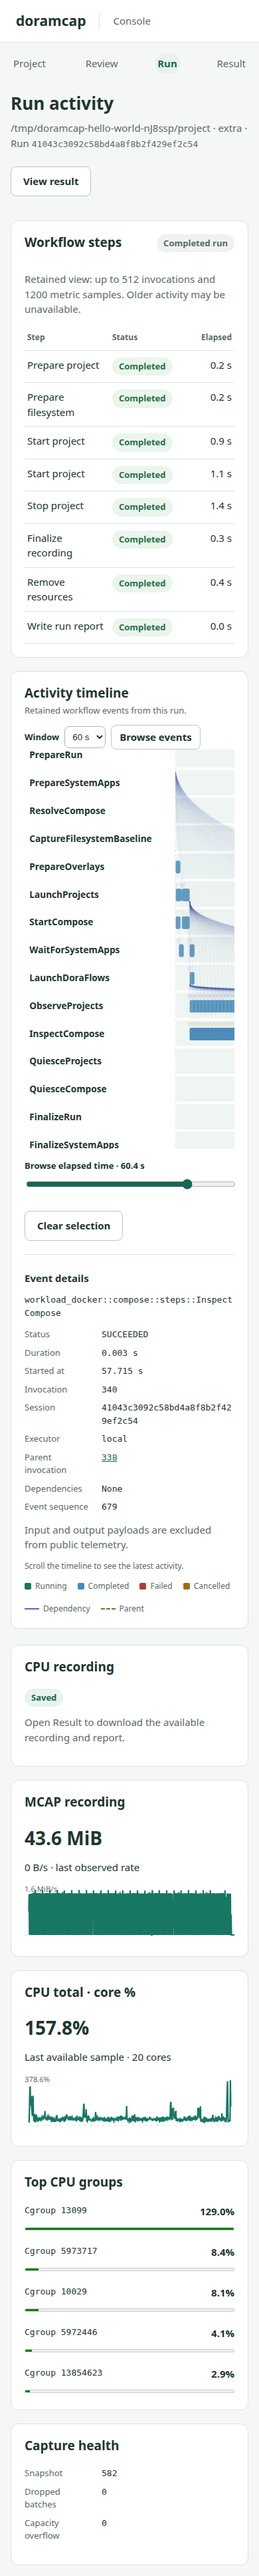
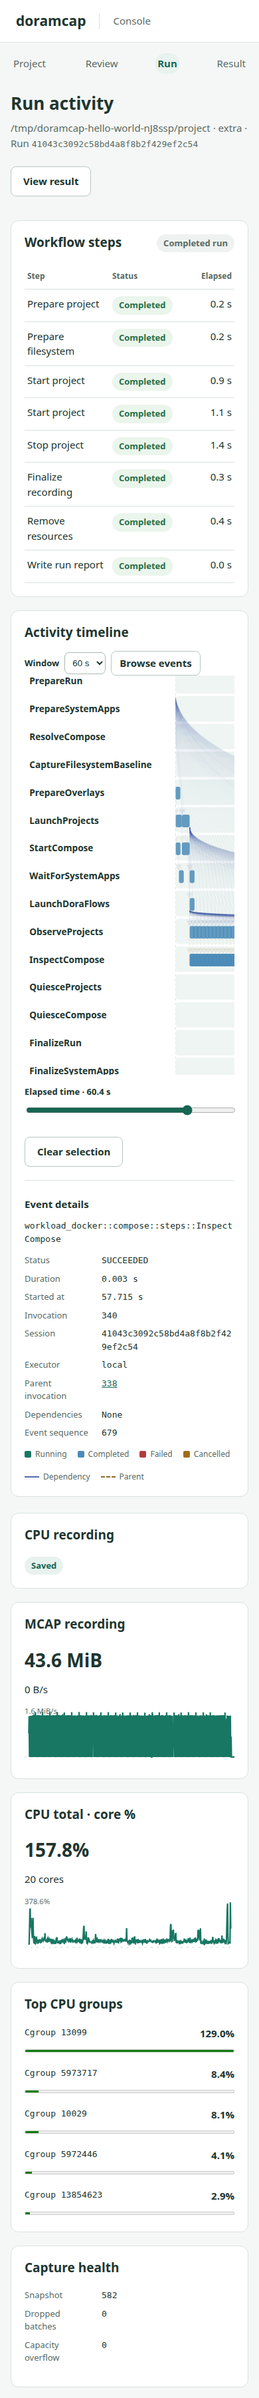
Remove redundant Console interface commentary

diff --git a/console/frontend/src/ActivityTimeline.tsx b/console/frontend/src/ActivityTimeline.tsx
@@ -8,7 +8,7 @@ const colors: Record<string, string> = { STARTED: '#177763', SUCCEEDED: '#4a8bb7
 
 export function EventDetails({ step, now, inspectRelated }: { step: Step; now: number; inspectRelated?: (invocation: string) => void }) {
   const times = stepTimes(step);
-  return <section className="event-details" aria-labelledby="event-detail-title"><h3 id="event-detail-title">Event details</h3><p className="mono break">{step.step}</p><dl className="detail-grid"><dt>Status</dt><dd>{step.state}</dd><dt>Duration</dt><dd>{elapsedDuration(step, now).toFixed(3)} s</dd><dt>Started at</dt><dd>{times.start.toFixed(3)} s</dd><dt>Invocation</dt><dd>{step.invocation}</dd><dt>Session</dt><dd>{step.session}</dd><dt>Executor</dt><dd>{step.executor}</dd><dt>Parent invocation</dt><dd>{step.parent ? (inspectRelated ? <button className="event-relation" onClick={() => inspectRelated(step.parent!)}>{step.parent}</button> : step.parent) : 'None'}</dd><dt>Dependencies</dt><dd>{step.dependencies?.length ? step.dependencies.map(id => inspectRelated ? <button key={id} className="event-relation" onClick={() => inspectRelated(id)}>{id}</button> : <span key={id}>{id} </span>) : 'None'}</dd><dt>Event sequence</dt><dd>{step.sequence ?? 'Unavailable'}</dd></dl>{step.error && <p className="notice failure-notice" role="status">{step.error}. Inspect private host evidence for the failure diagnostic.</p>}<p className="muted">Input and output payloads are excluded from public telemetry.</p></section>;
+  return <section className="event-details" aria-labelledby="event-detail-title"><h3 id="event-detail-title">Event details</h3><p className="mono break">{step.step}</p><dl className="detail-grid"><dt>Status</dt><dd>{step.state}</dd><dt>Duration</dt><dd>{elapsedDuration(step, now).toFixed(3)} s</dd><dt>Started at</dt><dd>{times.start.toFixed(3)} s</dd><dt>Invocation</dt><dd>{step.invocation}</dd><dt>Session</dt><dd>{step.session}</dd><dt>Executor</dt><dd>{step.executor}</dd><dt>Parent invocation</dt><dd>{step.parent ? (inspectRelated ? <button className="event-relation" onClick={() => inspectRelated(step.parent!)}>{step.parent}</button> : step.parent) : 'None'}</dd><dt>Dependencies</dt><dd>{step.dependencies?.length ? step.dependencies.map(id => inspectRelated ? <button key={id} className="event-relation" onClick={() => inspectRelated(id)}>{id}</button> : <span key={id}>{id} </span>) : 'None'}</dd><dt>Event sequence</dt><dd>{step.sequence ?? 'Unavailable'}</dd></dl>{step.error && <p className="notice failure-notice" role="status">{step.error}</p>}</section>;
 }
 
 export function ActivityTimeline({ steps, now, live = true }: { steps: Step[]; now: number; live?: boolean }) {
@@ -38,7 +38,7 @@ export function ActivityTimeline({ steps, now, live = true }: { steps: Step[]; n
     return [{ step, start: Math.max(start, times.start), end: Math.min(right, end) }];
   });
   return <section className="panel activity-panel" aria-labelledby="activity-title">
-    <div className="panel-heading activity-heading"><div><h2 id="activity-title">Activity timeline</h2><p className="muted">{live ? 'Live workflow events by step.' : 'Retained workflow events from this run.'}</p></div><div className="timeline-controls"><label htmlFor="timeline-window">Window</label><select id="timeline-window" value={windowSeconds} onChange={event => setWindowSeconds(Number(event.target.value))}><option value={5}>5 s</option><option value={15}>15 s</option><option value={30}>30 s</option><option value={60}>60 s</option></select><button className="button secondary timeline-toggle" onClick={() => setPaused(paused ? null : { now, steps: [...steps] })}>{paused ? (live ? 'Follow live' : 'Latest events') : (live ? 'Pause' : 'Browse events')}</button></div></div>
+    <div className="panel-heading activity-heading"><div><h2 id="activity-title">Activity timeline</h2></div><div className="timeline-controls"><label htmlFor="timeline-window">Window</label><select id="timeline-window" value={windowSeconds} onChange={event => setWindowSeconds(Number(event.target.value))}><option value={5}>5 s</option><option value={15}>15 s</option><option value={30}>30 s</option><option value={60}>60 s</option></select><button className="button secondary timeline-toggle" onClick={() => setPaused(paused ? null : { now, steps: [...steps] })}>{paused ? (live ? 'Follow live' : 'Latest events') : (live ? 'Pause' : 'Browse events')}</button></div></div>
     <div className="activity-scroll"><svg className="activity-timeline" viewBox={`0 0 ${svgWidth} ${svgHeight}`} onClick={event => {
       const box = event.currentTarget.getBoundingClientRect();
       const plotX = (event.clientX - box.left) * svgWidth / box.width;
@@ -49,7 +49,7 @@ export function ActivityTimeline({ steps, now, live = true }: { steps: Step[]; n
       const distance = (item: typeof visible[number]) => Math.max(item.start - time, time - item.end, 0);
       const nearby = visible.filter(item => rowByName.get(item.step.step) === lane).sort((a,b) => distance(a) - distance(b))[0];
       if (nearby) select(nearby.step);
-    }} role="group" aria-label={`Workflow activity timeline, ${live ? (paused ? 'paused' : 'following live') : 'retained run'}, showing ${windowSeconds} seconds`}>
+    }} role="group" aria-label={`Workflow activity timeline, ${live ? (paused ? 'paused' : 'following live') : 'completed run'}, showing ${windowSeconds} seconds`}>
       <defs><clipPath id={clipId}><rect x={left} y="28" width={width} height={plotBottom - 28} /></clipPath><marker id={arrowId} viewBox="0 0 8 8" refX="7" refY="4" markerWidth="7" markerHeight="7" orient="auto"><path d="M0,0 L8,4 L0,8 Z" fill="context-stroke"/></marker></defs>
       {Array.from({ length: 6 }, (_, i) => <g key={i}><line x1={left + i * width / 5} x2={left + i * width / 5} y1="28" y2={plotBottom} className="timeline-grid"/><text x={left + i * width / 5} y="17" textAnchor="middle" className="timeline-axis">{(start + i * windowSeconds / 5).toFixed(1)} s</text></g>)}
       {rows.map((name, i) => <g key={name} className="timeline-step-row" data-step={name}><rect x={left} y={top + i * rowHeight} width={width} height={rowHeight - 4} rx="5" className="timeline-lane"/><text x="8" y={top + 27 + i * rowHeight} className="timeline-lane-label"><title>{name}</title>{name.split('::').at(-1)}</text></g>)}
@@ -61,12 +61,12 @@ export function ActivityTimeline({ steps, now, live = true }: { steps: Step[]; n
         const x1 = x(from), spanWidth = Math.max(8, x(end) - x1), markerX = Math.max(left, Math.min(left + width - spanWidth, x1)), y = rowY(step);
         return <rect className="timeline-event" role="button" tabIndex={0} aria-label={`${shortStep(step)}, ${step.state.toLowerCase()}, invocation ${step.invocation}`} aria-pressed={selected ? identity(selected) === identity(step) : false} onClick={event => { event.stopPropagation(); select(step); }} onKeyDown={event => { if (event.key === 'Enter' || event.key === ' ') { event.preventDefault(); select(step); } }} stroke={selected && identity(selected) === identity(step) ? '#20352f' : 'none'} strokeWidth="3" key={identity(step)} x={markerX} y={y} width={spanWidth} height="21" rx="3" fill={colors[step.state] ?? '#72857d'} opacity="0.85"><title>{`${shortStep(step)} · ${step.state.toLowerCase()} · invocation ${step.invocation}`}</title></rect>;
       })}</g>
-      {!shown.length && <text x={left + width / 2} y={top + 27} textAnchor="middle" className="timeline-empty">{live ? 'Waiting for workflow events…' : 'No retained workflow events available.'}</text>}
-      <text x={left} y={svgHeight - 8} className="timeline-axis">Elapsed since workflow start</text>
+      {!shown.length && <text x={left + width / 2} y={top + 27} textAnchor="middle" className="timeline-empty">{live ? 'Waiting for events…' : 'No events available.'}</text>}
+      <text x={left} y={svgHeight - 8} className="timeline-axis">Elapsed time</text>
     </svg></div>
-    <label className="timeline-position" htmlFor="timeline-position">Browse elapsed time · {right.toFixed(1)} s<input id="timeline-position" type="range" min={windowSeconds} max={Math.max(windowSeconds, now)} step="0.1" value={Math.min(right, Math.max(windowSeconds, now))} onChange={event => setPaused({ now: Number(event.target.value), steps: [...steps] })}/></label>
-    {missingRelated && <p className="notice">Related invocation is outside the retained activity.</p>}
-    {focus ? <><div className="actions"><button className="button secondary" onClick={() => { setSelected(null); setMissingRelated(false); }}>Clear selection</button></div><EventDetails step={focus} now={shownNow} inspectRelated={inspectRelated}/></> : <p className="muted">Select an event to inspect its timing and relationships.</p>}
-    <p className="timeline-scroll-hint">Scroll the timeline to see the latest activity.</p><div className="timeline-legend"><span><i className="timeline-key running"/>Running</span><span><i className="timeline-key completed"/>Completed</span><span><i className="timeline-key failed"/>Failed</span><span><i className="timeline-key cancelled"/>Cancelled</span><span><i className="timeline-flow-key dependency"/>Dependency</span><span><i className="timeline-flow-key parent"/>Parent</span></div>
+    <label className="timeline-position" htmlFor="timeline-position">Elapsed time · {right.toFixed(1)} s<input id="timeline-position" type="range" min={windowSeconds} max={Math.max(windowSeconds, now)} step="0.1" value={Math.min(right, Math.max(windowSeconds, now))} onChange={event => setPaused({ now: Number(event.target.value), steps: [...steps] })}/></label>
+    {missingRelated && <p className="notice">Related event unavailable.</p>}
+    {focus ? <><div className="actions"><button className="button secondary" onClick={() => { setSelected(null); setMissingRelated(false); }}>Clear selection</button></div><EventDetails step={focus} now={shownNow} inspectRelated={inspectRelated}/></> : null}
+    <div className="timeline-legend"><span><i className="timeline-key running"/>Running</span><span><i className="timeline-key completed"/>Completed</span><span><i className="timeline-key failed"/>Failed</span><span><i className="timeline-key cancelled"/>Cancelled</span><span><i className="timeline-flow-key dependency"/>Dependency</span><span><i className="timeline-flow-key parent"/>Parent</span></div>
   </section>;
 }

diff --git a/console/frontend/src/App.tsx b/console/frontend/src/App.tsx
@@ -91,9 +91,9 @@ export function App() {
     {error && <div className="notice failure-notice" role="alert">{error}{retry && <ActionButton variant="secondary" onClick={() => void start()}>Start run</ActionButton>}</div>}
     {disconnected && <div className="notice"><span role="status">Connection lost; run may still be active.</span> <span aria-live="off">{updated && `Last update ${Math.max(0, Math.floor((clock - updated) / 1000))} s ago.`}</span></div>}
     <div className="sr-only" aria-live="polite">{phase} {state === 'STOPPING' ? 'Stopping run' : ''}</div>
-    {phase === 'Project' && <><div className="heading"><div><h1>Choose a project</h1><p>Select a server-side Compose project to record.</p></div></div><div className="columns"><section className="panel"><h2>Project directory</h2><p className="muted">Enter a directory beneath the approved project root.</p><label htmlFor="directory">Directory on this host</label><input id="directory" value={directory} onChange={event => changeDirectory(event.target.value)} placeholder="/projects/my-project" autoComplete="off"/>{available.length > 0 && <fieldset><legend>Optional profiles</legend>{available.map(profile => <label className="checkbox" key={profile}><input type="checkbox" checked={profiles.includes(profile)} onChange={() => toggleProfile(profile)}/>{profile}</label>)}</fieldset>}<div className="actions"><ActionButton disabled={!directory.trim() || busy} onClick={() => void prepare()}>{busy ? 'Checking…' : available.length ? 'Review project' : 'Continue'}</ActionButton></div></section><aside><section className="panel"><h2>Before you start</h2><p>Use the project’s default Compose files and prebuilt local images. CPU recording starts with the run.</p><p className="muted">One project runs at a time on this host.</p></section></aside></div></>}
-    {phase === 'Review' && review && <><div className="heading"><div><h1>Review project</h1><p>Confirm the resolved application before starting.</p></div><ActionButton onClick={() => void start()} disabled={busy}>Start run</ActionButton></div><div className="columns"><section className="panel"><div className="panel-heading"><h2>Application</h2><StatusLabel label="Ready to start" tone="success"/></div><p className="mono break">{directory}</p><h3>Enabled services</h3><table><thead><tr><th>Service</th><th>Local image</th></tr></thead><tbody>{review.services.map(service => <tr key={service.name}><td>{service.name}</td><td className="mono break">{service.imageId}</td></tr>)}</tbody></table>{review.warnings.map(warning => <p className="notice" key={warning}>{warning}</p>)}<div className="actions"><ActionButton variant="secondary" onClick={() => { selecting.current = true; setPhase('Project'); }}>Change project</ActionButton></div></section><aside><section className="panel"><h2>Run settings</h2><p>Profiles</p><p>{profiles.length ? profiles.join(', ') : 'Default'}</p><p className="muted">CPU recording will be checked after startup and finalized on Stop.</p></section></aside></div></>}
-    {phase === 'Run' && <><div className="heading"><div><h1>{historical ? 'Run activity' : state === 'STOPPING' || stopPending ? 'Stopping run' : 'Run in progress'}</h1><p>{(snapshot?.projectDirectory || directory) && <>{snapshot?.projectDirectory || directory} · </>}{(snapshot?.profiles?.length ?? 0) > 0 && <>{snapshot?.profiles?.join(', ')} · </>}Run <span className="mono">{snapshot?.runId || expected.current}</span></p></div>{historical ? <ActionButton variant="secondary" onClick={() => navigateRun('Result')}>View result</ActionButton> : <ActionButton variant="stop" disabled={state === 'STOPPING' || stopPending} onClick={() => void stop()}>{state === 'STOPPING' || stopPending ? 'Stopping…' : 'Stop run'}</ActionButton>}</div><div className="columns"><div><RunActivity snapshot={snapshot} stopping={state === 'STOPPING' || stopPending} disconnected={disconnected} historical={historical}/></div><aside><section className="panel"><h2>CPU recording</h2><StatusLabel label={historical ? (snapshot?.cpuAvailable ? 'Saved' : 'Unavailable') : snapshot?.monitorReady ? 'In progress' : 'Waiting for readiness'} tone={snapshot?.monitorReady ? 'active' : 'neutral'}/><p className="muted">{historical ? 'Open Result to download the available recording and report.' : 'Evidence is available after Stop and finalization.'}</p></section><RunMetrics samples={snapshot?.metrics} cpuSnapshots={snapshot?.cpuSnapshots} historical={historical} disconnected={disconnected} incomplete={snapshot?.metricsIncomplete}/>{!historical && <section className="panel"><h2>Stopping the run</h2><p>Stop ends the application, finishes the recording, and checks cleanup.</p><p className="muted">Closing this browser leaves the run on the host.</p></section>}</aside></div></>}
+    {phase === 'Project' && <><div className="heading"><div><h1>Choose a project</h1></div></div><div className="columns"><section className="panel"><h2>Project directory</h2><p className="muted">Enter a directory beneath the approved project root.</p><label htmlFor="directory">Directory on this host</label><input id="directory" value={directory} onChange={event => changeDirectory(event.target.value)} placeholder="/projects/my-project" autoComplete="off"/>{available.length > 0 && <fieldset><legend>Optional profiles</legend>{available.map(profile => <label className="checkbox" key={profile}><input type="checkbox" checked={profiles.includes(profile)} onChange={() => toggleProfile(profile)}/>{profile}</label>)}</fieldset>}<div className="actions"><ActionButton disabled={!directory.trim() || busy} onClick={() => void prepare()}>{busy ? 'Checking…' : available.length ? 'Review project' : 'Continue'}</ActionButton></div></section><aside><section className="panel"><h2>Before you start</h2><p>Default Compose files and prebuilt local images required.</p></section></aside></div></>}
+    {phase === 'Review' && review && <><div className="heading"><div><h1>Review project</h1></div><ActionButton onClick={() => void start()} disabled={busy}>Start run</ActionButton></div><div className="columns"><section className="panel"><div className="panel-heading"><h2>Application</h2><StatusLabel label="Ready to start" tone="success"/></div><p className="mono break">{directory}</p><h3>Enabled services</h3><table><thead><tr><th>Service</th><th>Local image</th></tr></thead><tbody>{review.services.map(service => <tr key={service.name}><td>{service.name}</td><td className="mono break">{service.imageId}</td></tr>)}</tbody></table>{review.warnings.map(warning => <p className="notice" key={warning}>{warning}</p>)}<div className="actions"><ActionButton variant="secondary" onClick={() => { selecting.current = true; setPhase('Project'); }}>Change project</ActionButton></div></section><aside><section className="panel"><h2>Run settings</h2><p>Profiles</p><p>{profiles.length ? profiles.join(', ') : 'Default'}</p></section></aside></div></>}
+    {phase === 'Run' && <><div className="heading"><div><h1>{historical ? 'Run activity' : state === 'STOPPING' || stopPending ? 'Stopping run' : 'Run in progress'}</h1><p>{(snapshot?.projectDirectory || directory) && <>{snapshot?.projectDirectory || directory} · </>}{(snapshot?.profiles?.length ?? 0) > 0 && <>{snapshot?.profiles?.join(', ')} · </>}Run <span className="mono">{snapshot?.runId || expected.current}</span></p></div>{historical ? <ActionButton variant="secondary" onClick={() => navigateRun('Result')}>View result</ActionButton> : <ActionButton variant="stop" disabled={state === 'STOPPING' || stopPending} onClick={() => void stop()}>{state === 'STOPPING' || stopPending ? 'Stopping…' : 'Stop run'}</ActionButton>}</div><div className="columns"><div><RunActivity snapshot={snapshot} stopping={state === 'STOPPING' || stopPending} disconnected={disconnected} historical={historical}/></div><aside><section className="panel"><h2>CPU recording</h2><StatusLabel label={historical ? (snapshot?.cpuAvailable ? 'Saved' : 'Unavailable') : snapshot?.monitorReady ? 'In progress' : 'Waiting for readiness'} tone={snapshot?.monitorReady ? 'active' : 'neutral'}/></section><RunMetrics samples={snapshot?.metrics} cpuSnapshots={snapshot?.cpuSnapshots} historical={historical} disconnected={disconnected} incomplete={snapshot?.metricsIncomplete}/></aside></div></>}
     {phase === 'Result' && snapshot && <Result snapshot={snapshot} newRun={newRun} viewRun={() => navigateRun('Run')}/>}
   </PageFrame>;
 }

diff --git a/console/frontend/src/ui/tokens.css b/console/frontend/src/ui/tokens.css
@@ -1,5 +1,5 @@
 :root{font-family:system-ui,-apple-system,BlinkMacSystemFont,"Segoe UI",sans-serif;color:#20352f;background:#f5f7f6;font-size:15px;line-height:1.5}*{box-sizing:border-box}body{margin:0}button,input{font:inherit}button,a,input{outline-offset:2px}button:focus-visible,a:focus-visible,input:focus-visible{outline:2px solid #166653}.topbar{height:64px;background:#fff;border-bottom:1px solid #d9e2dd;display:flex;align-items:center;gap:20px;padding:0 48px;color:#596b64}.topbar strong{font-size:21px;color:#20352f}.divider{height:24px;width:1px;background:#d9e2dd}.host{margin-left:auto;font-size:13px}.page{max-width:1200px;margin:auto;padding:20px 64px 64px}.phase-rail{display:flex;gap:24px;align-items:center;flex-wrap:wrap;margin-bottom:28px}.phase{display:flex;gap:9px;align-items:center;padding:6px 8px;border-radius:16px;color:#596b64}.phase small{font-size:12px;font-weight:600}.phase.current{background:#e8f2ee;color:#166653;font-weight:600}.heading{display:flex;justify-content:space-between;align-items:flex-start;gap:24px;margin-bottom:36px}.heading h1{margin:0;font-size:30px;line-height:1.25;font-weight:650}.heading p{margin:10px 0 0;color:#596b64}.columns{display:grid;grid-template-columns:minmax(0,2.05fr) minmax(0,1fr);gap:24px;align-items:start}.columns>div,.columns>aside{display:grid;gap:20px}.panel{background:#fff;border:1px solid #d9e2dd;border-radius:12px;padding:28px;min-width:0}.panel h2{font-size:19px;line-height:1.3;margin:0 0 20px}.panel h3{font-size:15px;margin:24px 0 8px}.panel p{margin:12px 0}.panel-heading{display:flex;justify-content:space-between;align-items:flex-start;gap:12px}.muted{color:#596b64}.mono{font-family:ui-monospace,SFMono-Regular,Consolas,monospace;font-size:13px}.break{overflow-wrap:anywhere}label,legend{font-size:13px;font-weight:600;display:block;margin:20px 0 8px}input:not([type=checkbox]){width:100%;height:44px;border:1px solid #a8bab1;border-radius:8px;padding:0 12px;color:#20352f;background:#fff}fieldset{border:0;padding:0;margin:20px 0}.checkbox{display:flex;align-items:center;gap:10px;font-weight:400;margin:10px 0}.checkbox input{width:18px;height:18px;accent-color:#166653}.actions{display:flex;align-items:center;gap:12px;flex-wrap:wrap;margin-top:24px}.button{min-height:44px;border:1px solid transparent;border-radius:8px;padding:10px 18px;display:inline-flex;align-items:center;justify-content:center;font-weight:600;text-decoration:none;cursor:pointer}.button.primary{background:#166653;color:white}.button.secondary,.button.stop{background:#fff;border-color:#b7c8bf;color:#20352f}.button.stop{color:#8b5a13}.button:disabled{cursor:not-allowed;opacity:.55}.status{display:inline-block;border-radius:16px;padding:4px 10px;font-size:13px;font-weight:600;white-space:nowrap}.status.active{color:#166653;background:#e8f2ee}.status.success{color:#267047;background:#eaf5ec}.status.attention{color:#8b5a13;background:#fff3dc}.status.failure{color:#a33636;background:#fbecec}.status.neutral{color:#596b64;background:#eff2f0}.notice{padding:12px 16px;background:#fff3dc;color:#714800;border-radius:8px;margin:0 0 20px;overflow-wrap:anywhere}.failure-notice{background:#fbecec;color:#8b2929}.attention-panel{border-color:#e7c99b;background:#fffaf1}.table-wrap{max-width:100%}table{border-collapse:collapse;width:100%;table-layout:fixed}th,td{border-bottom:1px solid #d9e2dd;text-align:left;padding:12px 8px;vertical-align:top;overflow-wrap:anywhere}th{font-size:12px;color:#596b64}td .status{white-space:normal}.duration{text-align:right;width:90px}.outcomes{display:grid;gap:0}.outcomes>div{display:flex;align-items:center;justify-content:space-between;gap:12px;padding:12px 0;border-bottom:1px solid #d9e2dd}.unavailable{color:#596b64;font-size:14px}.sr-only{position:absolute;width:1px;height:1px;padding:0;margin:-1px;overflow:hidden;clip:rect(0,0,0,0);white-space:nowrap;border:0}@media(max-width:900px){.page{padding:20px 24px 48px}.columns{grid-template-columns:1fr}.heading{flex-wrap:wrap}.topbar{padding:0 24px}.phase-rail{gap:8px}.host{display:none}}@media(max-width:480px){.page{padding:16px}.panel{padding:20px}.heading h1{font-size:26px}.phase{padding:4px}.phase-rail{justify-content:space-between}.phase small{display:none}.button{max-width:100%}th,td{padding:10px 4px}.duration{width:60px}}
-.activity-heading{align-items:center;flex-wrap:wrap}.activity-heading h2{margin-bottom:4px}.activity-heading p{margin:0;font-size:13px}.timeline-controls{display:flex;align-items:center;gap:8px;flex-wrap:wrap}.timeline-controls label{margin:0;font-size:13px}.timeline-controls select{border:1px solid #a8bab1;border-radius:7px;background:#fff;color:#20352f;padding:7px}.timeline-toggle{min-height:36px;padding:6px 12px}.activity-scroll{overflow:auto;max-height:600px}.activity-timeline{display:block;width:100%;height:auto;margin-top:20px}.timeline-grid{stroke:#cadad2;stroke-dasharray:3 5}.timeline-lane{fill:#eff5f2}.timeline-axis{font-size:16px;fill:#596b64}.timeline-lane-label{font-size:15px;fill:#20352f;font-weight:600}.timeline-empty{font-size:13px;fill:#596b64}.timeline-scroll-hint{display:none}.timeline-legend{display:flex;flex-wrap:wrap;gap:16px;font-size:12px;color:#596b64}.timeline-legend span{display:inline-flex;align-items:center;gap:6px}.timeline-key{width:10px;height:10px;border-radius:2px}.timeline-key.running{background:#177763}.timeline-key.completed{background:#4a8bb7}.timeline-key.failed{background:#b13c3c}.timeline-key.cancelled{background:#a26a1a}@media(max-width:480px){.timeline-scroll-hint{display:block;color:#596b64;font-size:12px;margin:4px 0}.activity-timeline{min-width:900px}.activity-heading{align-items:flex-start}.timeline-controls{width:100%}}
+.activity-heading{align-items:center;flex-wrap:wrap}.activity-heading h2{margin-bottom:4px}.activity-heading p{margin:0;font-size:13px}.timeline-controls{display:flex;align-items:center;gap:8px;flex-wrap:wrap}.timeline-controls label{margin:0;font-size:13px}.timeline-controls select{border:1px solid #a8bab1;border-radius:7px;background:#fff;color:#20352f;padding:7px}.timeline-toggle{min-height:36px;padding:6px 12px}.activity-scroll{overflow:auto;max-height:600px}.activity-timeline{display:block;width:100%;height:auto;margin-top:20px}.timeline-grid{stroke:#cadad2;stroke-dasharray:3 5}.timeline-lane{fill:#eff5f2}.timeline-axis{font-size:16px;fill:#596b64}.timeline-lane-label{font-size:15px;fill:#20352f;font-weight:600}.timeline-empty{font-size:13px;fill:#596b64}.timeline-legend{display:flex;flex-wrap:wrap;gap:16px;font-size:12px;color:#596b64}.timeline-legend span{display:inline-flex;align-items:center;gap:6px}.timeline-key{width:10px;height:10px;border-radius:2px}.timeline-key.running{background:#177763}.timeline-key.completed{background:#4a8bb7}.timeline-key.failed{background:#b13c3c}.timeline-key.cancelled{background:#a26a1a}@media(max-width:480px){.activity-timeline{min-width:900px}.activity-heading{align-items:flex-start}.timeline-controls{width:100%}}
 .timeline-event{cursor:pointer}.timeline-event:focus-visible{outline:3px solid #20352f;outline-offset:3px}.detail-grid{display:grid;grid-template-columns:minmax(0,1fr) minmax(0,2fr);gap:8px 16px;font-size:13px}.detail-grid dt{color:#596b64}.detail-grid dd{margin:0;overflow-wrap:anywhere;font-family:ui-monospace,SFMono-Regular,Consolas,monospace}.event-details{border-top:1px solid #d9e2dd;margin-top:20px}.timeline-position{margin:16px 0}.timeline-position input[type=range]{display:block;width:100%;padding:0;height:32px;accent-color:#166653}.metric-value{font-size:28px;font-weight:650}.metric-chart{display:block;width:100%;height:auto}.metric-scale{font-size:10px;fill:#596b64}.phase-link{font:inherit;border:0;background:transparent;cursor:pointer}.phase-link:hover{background:#e8f2ee}.run-view-actions{display:flex;gap:12px;flex-wrap:wrap}
 
 .event-relation{border:0;padding:0;background:transparent;color:#166653;text-decoration:underline;cursor:pointer;font:inherit;display:block;overflow-wrap:anywhere;text-align:left}

diff --git a/console/frontend/src/Result.tsx b/console/frontend/src/Result.tsx
@@ -4,5 +4,5 @@ import { OutcomeSummary } from './ui/OutcomeSummary';
 export function Result({ snapshot, newRun, viewRun }: { snapshot: Snapshot; newRun: () => void; viewRun?: () => void }) {
   const blocked = snapshot.phase === 'BLOCKED';
   const interrupted = blocked && !snapshot.outcome;
-  return <><div className="heading"><div><h1>{interrupted ? 'Run interrupted' : blocked ? 'Cleanup unverified' : snapshot.outcome?.execution === 'Failed' ? 'Run failed' : 'Run complete'}</h1><p>Run <span className="mono">{snapshot.runId || 'Unknown'}</span></p></div><div className="run-view-actions">{viewRun && <ActionButton variant="secondary" onClick={viewRun}>View run activity</ActionButton>}<ActionButton variant="secondary" disabled={blocked} onClick={newRun}>New run</ActionButton></div></div><div className="columns"><div><OutcomeSummary outcome={snapshot.outcome}/><section className="panel"><h2>Evidence</h2><p className="muted">Download the current run’s recording and summary.</p><div className="actions">{snapshot.cpuAvailable ? <a className="button primary" href={`/api/artifacts/${snapshot.runId}/cpu`}>Download CPU recording</a> : <span className="unavailable">CPU recording unavailable</span>}{snapshot.reportAvailable ? <a className="button secondary" href={`/api/artifacts/${snapshot.runId}/report`}>Download report</a> : <span className="unavailable">Report unavailable</span>}</div></section></div><aside><section className={`panel ${blocked ? 'attention-panel' : ''}`}><h2>{blocked ? 'Admission blocked' : 'Ready for another run'}</h2><p>{blocked ? 'New runs are blocked until the server host’s administrator verifies cleanup. Reloading or changing projects cannot clear this server-side block.' : 'Cleanup was verified. You can choose a project for a new run.'}</p>{blocked && <details><summary>How to recover</summary><ol><li>Download any available evidence, then stop the Console server.</li><li>On the host, inspect this run’s private report and resolve remaining Docker resources, mounts and filesystem recovery.</li><li>After verifying cleanup, archive the data root’s current.pb marker beside this run’s evidence and restart the server. The Console will return to project selection.</li></ol><p>The original recording and reports stay in the run’s artifact directory. This requires host access; there is no browser reset.</p></details>}{interrupted && <p>Execution, recording and cleanup outcomes are unknown after process interruption.</p>}</section></aside></div></>;
+  return <><div className="heading"><div><h1>{interrupted ? 'Run interrupted' : blocked ? 'Cleanup unverified' : snapshot.outcome?.execution === 'Failed' ? 'Run failed' : 'Run complete'}</h1><p>Run <span className="mono">{snapshot.runId || 'Unknown'}</span></p></div><div className="run-view-actions">{viewRun && <ActionButton variant="secondary" onClick={viewRun}>View run activity</ActionButton>}<ActionButton variant="secondary" disabled={blocked} onClick={newRun}>New run</ActionButton></div></div><div className="columns"><div><OutcomeSummary outcome={snapshot.outcome}/><section className="panel"><h2>Evidence</h2><div className="actions">{snapshot.cpuAvailable ? <a className="button primary" href={`/api/artifacts/${snapshot.runId}/cpu`}>Download CPU recording</a> : <span className="unavailable">CPU recording unavailable</span>}{snapshot.reportAvailable ? <a className="button secondary" href={`/api/artifacts/${snapshot.runId}/report`}>Download report</a> : <span className="unavailable">Report unavailable</span>}</div></section></div>{blocked && <aside><section className="panel attention-panel"><h2>Admission blocked</h2><p>Verify cleanup on the host before starting another run.</p>{blocked && <details><summary>How to recover</summary><ol><li>Download any available evidence, then stop the Console server.</li><li>On the host, inspect this run’s private report and resolve remaining Docker resources, mounts and filesystem recovery.</li><li>After verifying cleanup, archive the data root’s current.pb marker beside this run’s evidence and restart the server. The Console will return to project selection.</li></ol><p>The original recording and reports stay in the run’s artifact directory. This requires host access; there is no browser reset.</p></details>}{interrupted && <p>Execution, recording and cleanup outcomes are unknown after process interruption.</p>}</section></aside>}</div></>;
 }

diff --git a/console/frontend/src/RunMetrics.tsx b/console/frontend/src/RunMetrics.tsx
@@ -29,5 +29,5 @@ export function RunMetrics({ samples = [], cpuSnapshots = [], historical = false
   const source = cpuSnapshots.at(-1);
   const groups = useMemo(() => topCpuGroups(cpuSnapshots), [cpuSnapshots]);
   const peak = Math.max(100, ...groups.map(group => group.percent));
-  return <><section className="panel"><h2>MCAP recording</h2><p className="metric-value">{bytesLabel(last?.recordingBytes)}</p><p>{last?.writeBytesPerSecond != null ? `${bytesLabel(last.writeBytesPerSecond)}/s` : 'Waiting for write samples'} · {historical ? 'last observed rate' : 'observed write rate'}</p><Sparkline samples={samples} field="writeBytesPerSecond" label="MCAP file growth rate over retained samples"/></section><section className="panel"><h2>CPU total · core %</h2><p className="metric-value">{cpu?.cpuPercent != null ? `${cpu.cpuPercent.toFixed(1)}%` : 'Unavailable'}</p><p>{historical ? 'Last available sample' : disconnected ? 'Connection lost · values frozen' : 'Recorded cgroup total'}{cpu?.cpuCores ? ` · ${cpu.cpuCores} cores` : ''}</p><Sparkline samples={samples} field="cpuPercent" label="Total recorded cgroup CPU utilization across cores over retained samples"/></section><section className="panel"><h2>Top CPU groups</h2>{groups.length ? <ol className="cpu-ranking">{groups.map(group => <li key={group.id}><div><span className="mono">Cgroup {group.id}</span><strong>{group.percent.toFixed(1)}%</strong></div><meter min={0} max={peak} value={group.percent} aria-label={`Cgroup ${group.id} core utilization`}/></li>)}</ol> : <p className="muted">No CPU group samples available.</p>}</section><section className="panel"><h2>Capture health</h2><dl className="detail-grid"><dt>Snapshot</dt><dd>{source?.sequence?.toString() ?? 'Unavailable'}</dd><dt>Dropped batches</dt><dd>{source?.droppedBatches?.toString() ?? 'Unavailable'}</dd><dt>Capacity overflow</dt><dd>{source?.capacityOverflow?.toString() ?? 'Unavailable'}</dd></dl></section>{incomplete && <p className="notice">Some metric samples are unavailable or incomplete.</p>}</>;
+  return <><section className="panel"><h2>MCAP recording</h2><p className="metric-value">{bytesLabel(last?.recordingBytes)}</p><p>{last?.writeBytesPerSecond != null ? `${bytesLabel(last.writeBytesPerSecond)}/s` : 'Unavailable'}</p><Sparkline samples={samples} field="writeBytesPerSecond" label="MCAP write rate"/></section><section className="panel"><h2>CPU total · core %</h2><p className="metric-value">{cpu?.cpuPercent != null ? `${cpu.cpuPercent.toFixed(1)}%` : 'Unavailable'}</p>{!!cpu?.cpuCores && <p>{cpu.cpuCores} cores</p>}{disconnected && !historical && <p className="notice">Connection lost</p>}<Sparkline samples={samples} field="cpuPercent" label="Total CPU utilization across cores"/></section><section className="panel"><h2>Top CPU groups</h2>{groups.length ? <ol className="cpu-ranking">{groups.map(group => <li key={group.id}><div><span className="mono">Cgroup {group.id}</span><strong>{group.percent.toFixed(1)}%</strong></div><meter min={0} max={peak} value={group.percent} aria-label={`Cgroup ${group.id} core utilization`}/></li>)}</ol> : <p className="muted">Unavailable</p>}</section><section className="panel"><h2>Capture health</h2><dl className="detail-grid"><dt>Snapshot</dt><dd>{source?.sequence?.toString() ?? 'Unavailable'}</dd><dt>Dropped batches</dt><dd>{source?.droppedBatches?.toString() ?? 'Unavailable'}</dd><dt>Capacity overflow</dt><dd>{source?.capacityOverflow?.toString() ?? 'Unavailable'}</dd></dl></section>{incomplete && <p className="notice">Metrics incomplete</p>}</>;
 }

diff --git a/console/frontend/src/panels.test.tsx b/console/frontend/src/panels.test.tsx
@@ -17,17 +17,17 @@ test('event inspector preserves precise identity, timing, relationships and safe
   for (const id of ['9007199254740993', '9007199254740994', '9007199254740995', '9007199254740996']) assert.match(html, new RegExp(id));
   assert.match(html, /0.100 s/);
   assert.match(html, /1.100 s/);
-  assert.match(html, /private host evidence/);
-  assert.match(html, /payloads are excluded/);
+  assert.match(html, /step failed/);
+  assert.doesNotMatch(html, /payloads are excluded|private host evidence/);
 });
 test('timeline events are keyboard buttons and completed view supports elapsed-time browsing', () => {
   // Arrange / Act
   const html = renderToStaticMarkup(<ActivityTimeline steps={[step]} now={2} live={false}/>);
   // Assert
   assert.match(html, /role="button" tabindex="0"/);
-  assert.match(html, /Browse elapsed time/);
+  assert.match(html, /Elapsed time/);
   assert.doesNotMatch(html, /Inspect retained event|timeline-event-picker/);
-  assert.match(html, /Retained workflow events from this run/);
+  assert.doesNotMatch(html, /Retained workflow events|Select an event|Scroll the timeline/);
   assert.doesNotMatch(html, /Following live/);
 });
 test('completed result exposes run activity even when admission is blocked', () => {
@@ -50,6 +50,7 @@ test('historical run freezes elapsed time and unavailable metrics remain distinc
   const zero = renderToStaticMarkup(<RunMetrics samples={[{elapsedNs:'1000000000',recordingBytes:'0',writeBytesPerSecond:0,cpuPercent:0,cpuCores:8}]} historical/>);
   // Assert
   assert.match(historical, /Completed run/);
+  assert.doesNotMatch(historical, /Retained view|512 invocations|1200 metric samples/);
   assert.match(absent, /Unavailable/);
   assert.match(absent, /Connection lost/);
   assert.match(absent, /incomplete/);
@@ -67,7 +68,7 @@ test('completed runs without retained activity do not imply that events will arr
   // Act
   const html = renderToStaticMarkup(<RunActivity snapshot={snapshot} historical stopping={false} disconnected={false}/>);
   // Assert
-  assert.match(html, /No workflow steps were retained/);
-  assert.match(html, /No retained workflow events available/);
+  assert.match(html, /No workflow steps available/);
+  assert.match(html, /No events available/);
   assert.doesNotMatch(html, /Waiting for workflow/);
 });

diff --git a/console/frontend/src/RunActivity.tsx b/console/frontend/src/RunActivity.tsx
@@ -16,5 +16,5 @@ export function RunActivity({ snapshot, stopping, disconnected, historical = fal
     anchor.current = { runId, sequence, elapsed: Math.max(0, ...steps.map(step => stepTimes(step).end)), wall: Date.now() };
   }
   const now = anchor.current.elapsed + (historical || disconnected || !steps.length ? 0 : Math.max(0, clock - anchor.current.wall) / 1000);
-  return <><section className="panel"><div className="panel-heading"><h2>Workflow steps</h2><StatusLabel label={historical ? (snapshot?.phase === 'FINISHED' ? 'Completed run' : 'Retained activity') : stopping ? 'Stopping' : 'Running'} tone={historical ? 'neutral' : 'active'}/></div>{snapshot?.progressIncomplete && <p className="notice">Progress incomplete</p>}{snapshot && snapshot.truncatedSteps !== '0' && <p className="notice">Older activity hidden</p>}{historical && <p className="muted">Retained view: up to 512 invocations and 1200 metric samples. Older activity may be unavailable.</p>}<RunSteps steps={steps} now={now} emptyMessage={historical ? 'No workflow steps were retained for this run.' : undefined}/></section><ActivityTimeline key={runId} steps={steps} now={now} live={!historical}/></>;
+  return <><section className="panel"><div className="panel-heading"><h2>Workflow steps</h2><StatusLabel label={historical ? (snapshot?.phase === 'FINISHED' ? 'Completed run' : 'Interrupted run') : stopping ? 'Stopping' : 'Running'} tone={historical ? 'neutral' : 'active'}/></div>{snapshot?.progressIncomplete && <p className="notice">Progress incomplete</p>}{snapshot && snapshot.truncatedSteps !== '0' && <p className="notice">Older activity hidden</p>}<RunSteps steps={steps} now={now} emptyMessage={historical ? 'No workflow steps available.' : undefined}/></section><ActivityTimeline key={runId} steps={steps} now={now} live={!historical}/></>;
 }

diff --git a/console/docs/102926-console-mvp.md b/console/docs/102926-console-mvp.md
@@ -628,3 +628,32 @@ skipped. This rendering change reused the completed real Docker run above;
 no new execution acceptance or second-machine browser run was performed.
 
 - [x] Run local CI and ARM64 on the final source; record results separately.
+
+## M10 — Concise interface copy
+
+**Work items**
+
+- [x] Remove routine retention limits, timeline subtitles, selection hints,
+  payload explanations and redundant metric/Stop/download commentary. Keep
+  statuses, controls, units, empty states and actionable failure/recovery messages.
+- [x] Simplify missing-data wording and remove the redundant successful-result
+  readiness panel. Leave actual incomplete-progress and cleanup warnings visible.
+
+**Validation**
+
+All 20 frontend component/model tests and the production build passed. Updated
+assertions cover the absent retention/payload prose and concise empty states.
+Headless Chromium verified the removed copy was absent on the packaged completed
+run, event selection still opened details, and the 390 px page remained 390 px
+wide. Refreshed `screenshots/completed-activity*.png` show the simplified view.
+No new Docker execution was needed for this copy/layout change.
+
+- [x] Verify the rendered copy, event selection and narrow layout.
+Final-source local CI passed: both Clippy/workspace configurations, storage
+without default features, examples/binaries, formatting, boundaries and snapshot
+synchronization (CI profile, locked dependencies, unprivileged builds). ARM64
+job 516 passed. Logs: `/tmp/console-copy-*.log`. Existing ignored capability,
+CUDA and high-memlock cases remain skipped; second-machine browser acceptance
+remains skipped by user instruction.
+
+- [x] Record final-source local CI and ARM64 results.
